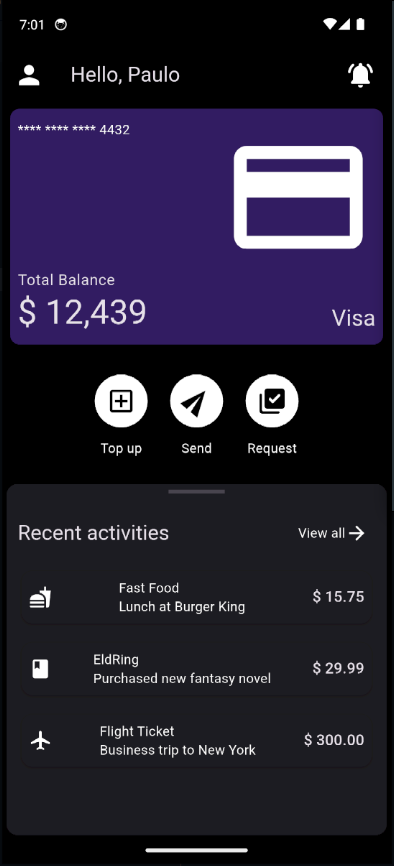
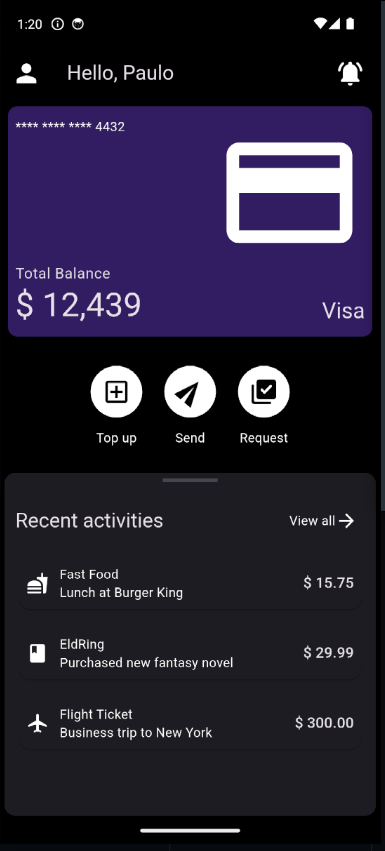
Corrigido o alinhamento dos registros da tela home

diff --git a/lib/finance/components/card_custom_activities.dart b/lib/finance/components/card_custom_activities.dart
@@ -42,31 +42,35 @@ class CardCustomActivitiesHome extends StatelessWidget {
                   ),
                   ...transactions.map(
                     (tr) {
-                      return SingleChildScrollView(
-                        child: Card(
-                          child: Padding(
-                            padding: const EdgeInsets.all(8.0),
-                            child: Row(
-                              mainAxisAlignment: MainAxisAlignment.spaceBetween,
-                              children: [
-                                Icon(
-                                  tr.icon,
-                                ),
-                                Column(
-                                  crossAxisAlignment: CrossAxisAlignment.start,
-                                  children: [
-                                    Text(
-                                      tr.title,
-                                    ),
-                                    Text(tr.details),
-                                  ],
-                                ),
-                                Text(
-                                  "\$ ${tr.value.toStringAsFixed(2)}",
-                                  style: TextTheme.of(context).titleMedium,
-                                )
-                              ],
-                            ),
+                      return Card(
+                        child: Padding(
+                          padding: const EdgeInsets.all(8.0),
+                          child: Row(
+                            mainAxisAlignment: MainAxisAlignment.spaceBetween,
+                            children: [
+                              Row(
+                                spacing: 12,
+                                children: [
+                                  Icon(
+                                    tr.icon,
+                                  ),
+                                  Column(
+                                    crossAxisAlignment:
+                                        CrossAxisAlignment.start,
+                                    children: [
+                                      Text(
+                                        tr.title,
+                                      ),
+                                      Text(tr.details),
+                                    ],
+                                  ),
+                                ],
+                              ),
+                              Text(
+                                "\$ ${tr.value.toStringAsFixed(2)}",
+                                style: TextTheme.of(context).titleMedium,
+                              )
+                            ],
                           ),
                         ),
                       );

diff --git a/lib/main.dart b/lib/main.dart
@@ -1,6 +1,6 @@
 import 'package:flutter/material.dart';
 import 'package:ui_ux_project/finance/ui/themes/theme_data.dart';
-import 'package:ui_ux_project/finance/views/login/login.dart';
+import 'package:ui_ux_project/finance/views/home.dart';
 
 void main() {
   runApp(const ManangerScreen());
@@ -16,7 +16,7 @@ class ManangerScreen extends StatelessWidget {
       themeMode: ThemeMode.system,
       theme: AppTheme.darkTheme(context),
       darkTheme: AppTheme.darkTheme(context),
-      home: FinanceLoginPage(),
+      home: FinanceHomePage(),
     );
   }
 }
